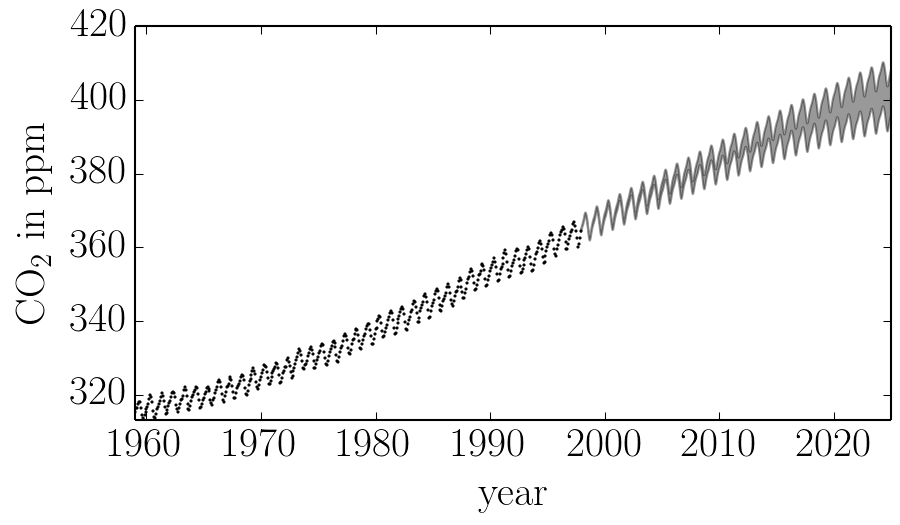
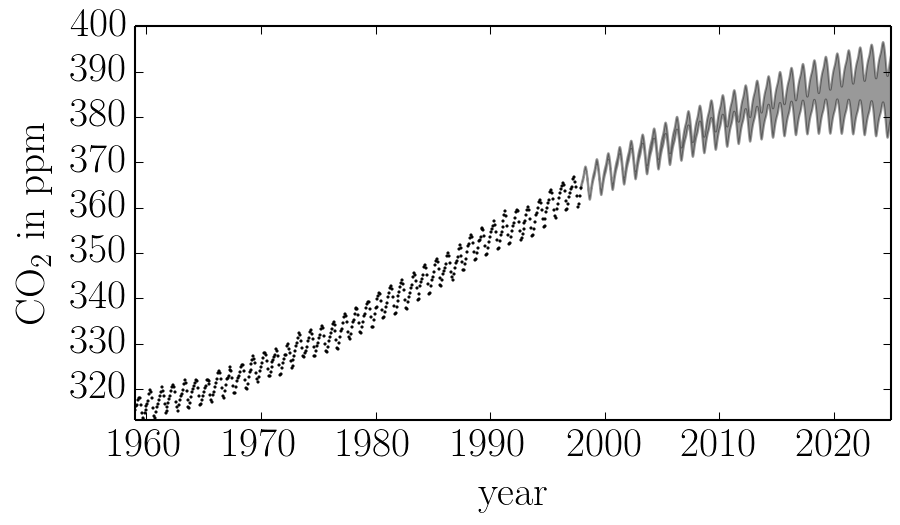
typo in hyperparameter docs

diff --git a/docs/_code/hyper.py b/docs/_code/hyper.py
@@ -9,6 +9,7 @@ http://www.gaussianprocess.org/gpml/
 from __future__ import division, print_function
 
 import numpy as np
+import scipy.optimize as op
 import statsmodels.api as sm
 import matplotlib.pyplot as pl
 
@@ -41,14 +42,43 @@ k4 = 0.18**2 * kernels.ExpSquaredKernel(1.6**2) + kernels.WhiteKernel(0.19)
 kernel = k1 + k2 + k3 + k4
 
 # Set up the Gaussian process and maximize the marginalized likelihood.
-gp = george.GP(kernel, mean=base)
-p, results = gp.optimize(t, y)
+gp = george.GP(kernel, mean=np.mean(y))
+
+# Define the objective function (negative log-likelihood in this case).
+def nll(p):
+    # Update the kernel parameters and compute the likelihood.
+    gp.kernel[:] = p
+    ll = gp.lnlikelihood(y, quiet=True)
+
+    # The scipy optimizer doesn't play well with infinities.
+    return -ll if np.isfinite(ll) else 1e25
+
+# And the gradient of the objective function.
+def grad_nll(p):
+    # Update the kernel parameters and compute the likelihood.
+    gp.kernel[:] = p
+    return -gp.grad_lnlikelihood(y, quiet=True)
+
+# You need to compute the GP once before starting the optimization.
+gp.compute(t)
+
+# Print the initial ln-likelihood.
+print(gp.lnlikelihood(y))
+
+# Run the optimization routine.
+p0 = gp.kernel.vector
+results = op.minimize(nll, p0, jac=grad_nll)
+
+# Update the kernel and print the final log-likelihood.
+gp.kernel[:] = results.x
+print(results)
+p = gp.kernel.pars
 print("Final parameters: \n", p)
 print("Final marginalized ln-likelihood: {0}".format(gp.lnlikelihood(y)))
 
 # Build the results table.
-rw = [66, 67**2, 2.4, 90**2, 2.0 / 1.3**2, 1.0, 0.66, 0.78, 1.2**2, 0.18,
-      1.6**2, 0.19]
+rw = [66**2, 67**2, 2.4**2, 90**2, 2.0 / 1.3**2, 1.0, 0.66**2, 0.78, 1.2**2,
+      0.18**2, 1.6**2, 0.19]
 labels = map(r":math:`\theta_{{{0}}}`".format, range(1, len(p)+1))
 l = max(map(len, labels))
 rf = "| {{0[0]:{0}s}} | {{0[1]:10.2f}} | {{0[2]:10.2f}} |".format(l).format
@@ -68,5 +98,5 @@ std = np.sqrt(np.diag(cov))
 # Plot the prediction.
 ax.fill_between(x, mu+std, mu-std, color="k", alpha=0.4)
 ax.set_xlim(min(t), 2025.0)
-ax.set_ylim(min(y), 420.0)
+ax.set_ylim(min(y), 400.0)
 fig.savefig("../_static/hyper/figure.png", dpi=150)

diff --git a/docs/_code/hyper_sample.py b/docs/_code/hyper_sample.py
@@ -44,7 +44,7 @@ print(time.time() - s)
 
 # Define the probabilistic model.
 def lnprob(p):
-    # Trivial improper prior: uniform in the log.
+    # Trivial prior: uniform in the log.
     if np.any((-10 > p) + (p > 10)):
         return -np.inf
     lnprior = 0.0

diff --git a/docs/user/hyper.rst b/docs/user/hyper.rst
@@ -63,10 +63,10 @@ as the hyperparameters for now):
 
     from george import kernels
 
-    k1 = 66.0 * kernels.ExpSquaredKernel(67.0**2)
-    k2 = 2.4 * kernels.ExpSquaredKernel(90**2) * kernels.ExpSine2Kernel(2.0 / 1.3**2, 1.0)
-    k3 = 0.66 * kernels.RationalQuadraticKernel(0.78, 1.2**2)
-    k4 = 0.18 * kernels.ExpSquaredKernel(1.6**2) + kernels.WhiteKernel(0.19)
+    k1 = 66.0**2 * kernels.ExpSquaredKernel(67.0**2)
+    k2 = 2.4**2 * kernels.ExpSquaredKernel(90**2) * kernels.ExpSine2Kernel(2.0 / 1.3**2, 1.0)
+    k3 = 0.66**2 * kernels.RationalQuadraticKernel(0.78, 1.2**2)
+    k4 = 0.18**2 * kernels.ExpSquaredKernel(1.6**2) + kernels.WhiteKernel(0.19)
     kernel = k1 + k2 + k3 + k4
 
 
@@ -113,7 +113,7 @@ as follows:
     def grad_nll(p):
         # Update the kernel parameters and compute the likelihood.
         gp.kernel[:] = p
-        return -self.grad_lnlikelihood(y, quiet=True)
+        return -gp.grad_lnlikelihood(y, quiet=True)
 
     # You need to compute the GP once before starting the optimization.
     gp.compute(t)
@@ -135,7 +135,7 @@ as follows:
     better initial guess or try a different value of the ``method`` parameter
     in ``op.minimize``.
 
-After running this optimization, we find a final ln-likelihood of -100.22
+After running this optimization, we find a final ln-likelihood of -82.46
 (slightly better than the result in R&W) and the following parameter values:
 
 .. include:: ../_static/hyper/results.txt
